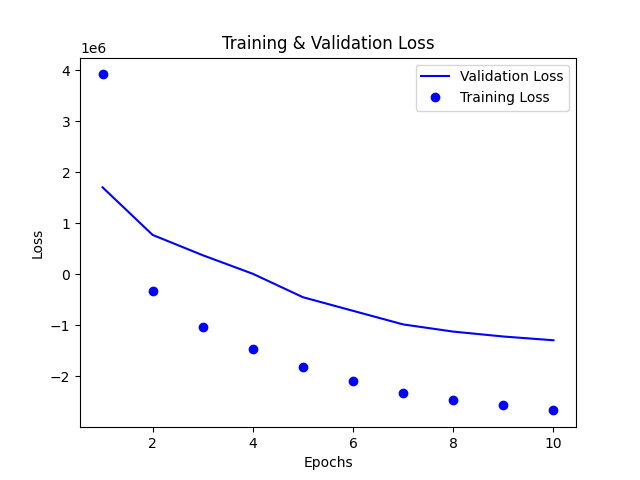
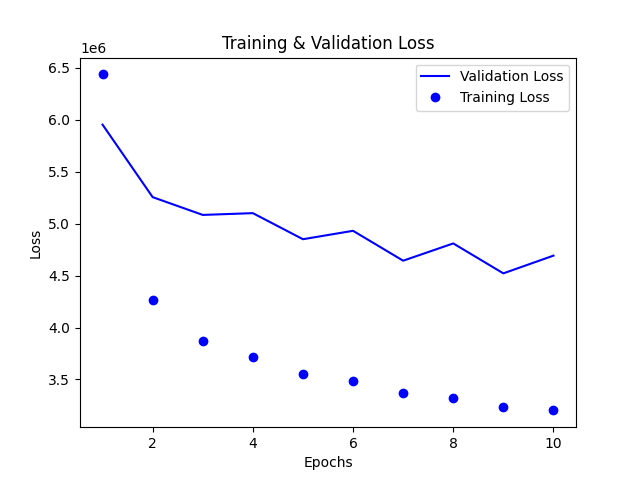
Mixed precision ready for f35 rand HP time test

diff --git a/BrahmsRestoreDLNN/src/dlnn_brahms_restore.py b/BrahmsRestoreDLNN/src/dlnn_brahms_restore.py
@@ -1038,7 +1038,7 @@ class TimeFreqMasking(Layer):
 #     return closure(self_true, self_pred)
 
 # Loss function for subclassed model
-def discriminative_loss_bad(piano_true, noise_true, piano_pred, noise_pred, loss_const):
+def discriminative_loss(piano_true, noise_true, piano_pred, noise_pred, loss_const):
     # print('TYPES:', piano_true.dtype, noise_true.dtype, piano_pred.dtype, noise_pred.dtype)
     last_dim = piano_pred.shape[1] * piano_pred.shape[2]
     return (
@@ -1061,8 +1061,8 @@ def discriminative_loss_bad(piano_true, noise_true, piano_pred, noise_pred, loss
 # y_preds = Concatenate() ([piano_pred, noise_pred, loss_const_tensor])
 def discrim_loss(y_true, y_pred):
     piano_true, noise_true = tf.split(y_true, num_or_size_splits=2, axis=-1)
-    loss_const = y_pred[:, :, -1][0][0]
-    piano_pred, noise_pred = tf.split(y_pred[:, :, :-1], num_or_size_splits=2, axis=-1)
+    loss_const = y_pred[-1, :, :][0][0]
+    piano_pred, noise_pred = tf.split(y_pred[:-1, :, :], num_or_size_splits=2, axis=0)
 
     last_dim = piano_pred.shape[1] * piano_pred.shape[2]
     return (
@@ -1441,8 +1441,8 @@ def make_model(features, sequences, name='Model', epsilon=10 ** (-10),
     
     # disc_loss = None
     if pre_trained_wgts is not None:
-            loss_const_tensor = tf.reshape(tf.constant(loss_const), [None, sequences, 1])
-            preds_and_lc = Concatenate() ([piano_pred, noise_pred, loss_const_tensor])
+            loss_const_tensor = tf.broadcast_to(tf.constant(loss_const), [1, sequences, features])
+            preds_and_lc = Concatenate(axis=0) ([piano_pred, noise_pred, loss_const_tensor])
             model = Model(inputs=input_layer, outputs=preds_and_lc)
 
             print('Only loading pre-trained weights for prediction')
@@ -1483,8 +1483,8 @@ def make_model(features, sequences, name='Model', epsilon=10 ** (-10),
         # # model.add_loss(disc_loss)
         # # model.compile(optimizer=optimizer, loss={'piano_pred': 'mse', 'noise_pred': 'mse'})
 
-        loss_const_tensor = tf.reshape(tf.constant(loss_const), [None, sequences, 1])
-        preds_and_lc = Concatenate() ([piano_pred, noise_pred, loss_const_tensor])
+        loss_const_tensor = tf.broadcast_to(tf.constant(loss_const), [1, sequences, features])
+        preds_and_lc = Concatenate(axis=0) ([piano_pred, noise_pred, loss_const_tensor])
 
         model = Model(inputs=input_layer, outputs=preds_and_lc)
         # model = Model(inputs=input_layer, outputs=output)
@@ -1970,13 +1970,13 @@ def evaluate_source_sep(# train_dataset, val_dataset,
 
     train_dataset = tf.data.Dataset.from_generator(
         make_gen_callable(train_generator), 
-        output_types=([tf.float32, tf.float32]),
-        output_shapes=([tf.TensorShape([None, n_seq, n_feat]), tf.TensorShape([None, n_seq, n_feat*2])]),
+        output_types=(tf.float32, tf.float32),
+        output_shapes=((None, n_seq, n_feat), (None, n_seq, n_feat*2)),
     )
     val_dataset = tf.data.Dataset.from_generator(
         make_gen_callable(validation_generator), 
-        output_types=([tf.float32, tf.float32]),
-        output_shapes=([tf.TensorShape([None, n_seq, n_feat]), tf.TensorShape([None, n_seq, n_feat*2])]),
+        output_types=(tf.float32, tf.float32),
+        output_shapes=((None, n_seq, n_feat), (None, n_seq, n_feat*2)),
     )
 
     # print('TRAIN DATASET ELEMENTS:', train_dataset.element_spec)
@@ -2122,7 +2122,7 @@ def get_hp_configs(bare_config_path, pc_run=False):
     # IMPORTANT: 1st GS - GO FOR WIDE RANGE OF OPTIONS & LESS OPTIONS PER HP
     # TEST FLOAT16 - double batch size
     # MIXED PRECISION   - double batch size (can't on PC still b/c OOM), for V100: multiple of 8
-    batch_size_optns = [3] if pc_run else [8, 16] # [16, 24] OOM on f35 
+    batch_size_optns = [3] if pc_run else [16, 24] # [8, 16] OOM on f35 w/ old addloss model
     # batch_size_optns = [3] if pc_run else [5, 10]  
     # epochs total options 10, 50, 100, but keep low b/c can go more if neccesary later (early stop pattern = 5)
     epochs_optns = [10]
@@ -2630,11 +2630,13 @@ def infer(x, phases, wdw_size, model, loss_const, optimizer, seq_len,
 
     # For small amts of input that fit in one batch: __call__ > predict - didn't work :/
     # clear_spgm, noise_spgm = model([x, x, x], batch_size=batch_size, training=False)
-    clear_spgm, noise_spgm = model.predict([x, x, x], batch_size=batch_size)
+    result_spgms = model.predict(x, batch_size=batch_size)
+    clear_spgm, noise_spgm = tf.split(result_spgms[:-1, :, :], num_or_size_splits=2, axis=0)
+    # clear_spgm, noise_spgm = model.predict([x, x, x], batch_size=batch_size)
     # print('RAW PREDICTIONS -- Clear Spgm Shape:', clear_spgm.shape, 
     #       '\nNoise Spgm Shape:', noise_spgm.shape)
-    clear_spgm = clear_spgm.reshape(-1, n_feat)
-    noise_spgm = noise_spgm.reshape(-1, n_feat)
+    clear_spgm = clear_spgm.numpy().reshape(-1, n_feat)
+    noise_spgm = noise_spgm.numpy().reshape(-1, n_feat)
     # print('Clear Spgm Shape:', clear_spgm.shape)
     # print('Noise Spgm Shape:', noise_spgm.shape)
     # print('NaN in clear spgm?', True in np.isnan(clear_spgm))
